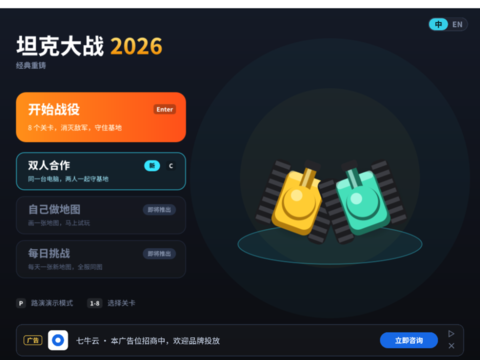
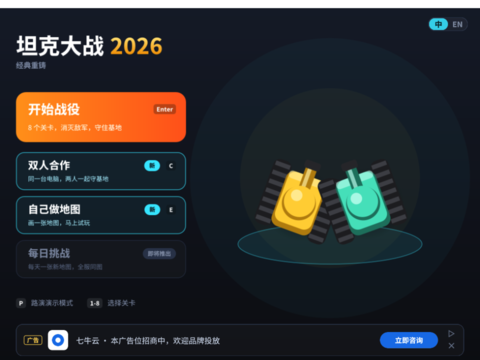
docs: map maker is implemented — screenshots, test log, architecture

Changed region(s): [[0.0312, 0.5194, 0.4062, 0.6722], [0.8125, 0.9167, 0.8438, 0.9472]]

diff --git a/docs/ARCHITECTURE.md b/docs/ARCHITECTURE.md
@@ -61,11 +61,12 @@ flowchart LR
 
 | 分组 | 主要内容 |
 |---|---|
-| 状态 | `grid []int`（0 空地 1 砖 2 钢 3 裂砖 4 水 5 草 9 基地）、`stage`（当前关卡 1~8）`stageScore`（进关时的得分）、`coop` `p2Exists` `lives2` `pbCount2` `p1x/p1y/p2x/p2y` `hitWho`（双人合作）、`score` `best` `lives` `killed` `spawned`、`theme`（0 经典 1 现代）、`lang`（0 中 1 英）、`state`、`screen`、`revived` `coins` `doubled`、广告关闭状态、自动驾驶状态 |
+| 状态 | `grid []int`（0 空地 1 砖 2 钢 3 裂砖 4 水 5 草 9 基地）、`stage`（当前关卡 1~8）`stageScore`（进关时的得分）、`coop` `p2Exists` `lives2` `pbCount2` `p1x/p1y/p2x/p2y` `hitWho`（双人合作）、`ed` `edTool` `edMirror` `edProblem` `edMark` `edCursor`（地图编辑器）、`score` `best` `lives` `killed` `spawned`、`theme`（0 经典 1 现代）、`lang`（0 中 1 英）、`state`、`screen`、`revived` `coins` `doubled`、广告关闭状态、自动驾驶状态 |
 | 地图 | `levelMap()`（按 `stage` 返回 8 张地图之一）、`stageTune()`（本关的重型 / 快速坦克占比、出兵间隔、场上上限）、`stageTip()`、`buildMap()`、`cellX/cellY/cellIndex/cellAt`、`tankBlocked()`、`blocksTank()` |
 | 子弹判定 | `bulletHit()`（弹头左右两个检测点）→ `hitPoint()` → `breakBrick()` / `baseDestroyed()` |
 | 规则 | `spawnEnemy()`（左中右轮流出生，类型和数量按 `stageTune()`）、`enemyKilled()`、`defeat()`、`endGame()` |
-| 流程 | `goHome()`、`playStage(n)`、`startGame()`、`again()`（结算后：下一关 / 重打本关 / 全部通关后回到第 1 关）、`watchAd()`、`revive()`、`showResult()`、`setScreen()`、`confirm()`，见[第 5 节](#5-游戏流程状态机) |
+| 地图编辑器 | `openEditor()`、`edPaint()`、`edCheck()`（规则同 `check.py`）、`edRebuild()`、`edRandom()`、`edSave()` / `edLoad()`（PC 版存到 `os.UserConfigDir()/TankBattle/maps.txt`）、`edCommand()`、`playCustom()` |
+| 流程 | `goHome()`、`newGame(n, two)`、`playStage(n)`、`startGame()`、`again()`（结算后：下一关 / 重打本关 / 全部通关后回到第 1 关）、`watchAd()`、`revive()`、`showResult()`、`setScreen()`、`confirm()`，见[第 5 节](#5-游戏流程状态机) |
 | 表现 | `look()`（画风后缀）、`langCode()`、`switchTheme()`、`switchLang()`、`toast()`、`shake()`、基地特写镜头 |
 | 界面布局 | `buildHud()`：创建所有 UI 克隆，坐标见[第 6 节](#6-坐标与布局) |
 | 路演演示 | `demoFlow` 消息处理、`autopilotDir()`、`seeEnemy()`、`autopilotBlocked()`、`waitState()` |
@@ -93,7 +94,9 @@ flowchart LR
 | `kLang` | 中 \| EN 按钮（可点击） | `toggle_<lang>` | `langChanged`、`screen` |
 | `kToast` | 提示条（自动隐藏） | `msg.*_<lang>` | `toast` |
 | `kAd` | 广告位：原生广告卡 `card` / 主页横幅 `banner`（可点击、可关闭） | `card_<lang>`、`banner_<lang>` | `screen`、`langChanged` |
-| `kScreen` | 全屏 / 弹窗画面（可点击） | `home`、`revive_<n>`、`adplay_<n>`、`result_<win\|final\|lose>_<plain\|done>`，再加 `_<lang>` | `screen` |
+| `kLife2` | 2P 的生命图标 | `life2_on/off` | `hud` |
+| `kEdSel` `kEdSwitch` `kEdStatus` `kEdCursor` `kEdMark` | 地图编辑器的小部件：工具选中框、对称开关和对称线、检查结果、光标、问题标记 | `edsel` `edsw_on/off` `edline` `edok/edbad1/edbad2_<lang>` `edcursor` `edmark` | `edit`、`edCursor` |
+| `kScreen` | 全屏 / 弹窗画面（可点击） | `home`、`editor`、`revive_<n>`、`adplay_<n>`、`result_<win\|final\|lose\|ewin\|elose>_<plain\|done>`，再加 `_<lang>` | `screen` |
 
 ### 3.4 构建工具 `tools/`
 
@@ -122,6 +125,9 @@ flowchart LR
 | `screen` | 舞台 `setScreen`（`broadcastAndWait`） | UI | 画面切换：画面层置顶，广告位按状态显示 / 隐藏 |
 | `raise` | 舞台 `setScreen` | UI | 把广告位、语言按钮、提示条、金币数放到画面层之上 |
 | `playerHit` | EBullet | Player | 玩家被击中；`hitWho` 说明是 1P 还是 2P，只有那一辆处理 |
+| `editLoop` | 舞台 | 舞台 | 编辑器：每帧读鼠标，绘制格子 |
+| `edit` / `edCursor` | 舞台 | UI（编辑器小部件） | 编辑状态变了 / 鼠标所在的格子变了 |
+| `tileGone` | 舞台 `edPaint` | Tile | 编辑器改了一个格子，编号为 `edChanged` 的克隆消失 |
 | `p2respawn` / `p2off` | 舞台 | Player（2P 克隆） | 2P 重新出生（开局、复活）/ 去掉 2P（单人开局、回主页） |
 | `pbHit` / `clash` | Enemy / PBullet | PBullet / EBullet | 子弹命中坦克后消失 / 子弹相撞互相抵消 |
 | `shake` / `baseCam` | 舞台 | 舞台 | 震屏 / 基地特写镜头 |
@@ -134,6 +140,9 @@ flowchart LR
 stateDiagram-v2
   [*] --> 主页: onStart
   主页 --> 对局: Enter / 空格 / 点击开始（第 1 关）；1~8 选关；C 双人合作
+  主页 --> 编辑器: E / 点击自己做地图
+  编辑器 --> 对局: Enter 试玩 / P 双人试玩（自制地图）
+  编辑器 --> 主页: Esc
   主页 --> 对局: P（路演演示，自动驾驶）
   对局 --> 复活询问: 基地被毁 / 生命用完（本局第一次）
   对局 --> 结算: 再次战败 / 消灭 20 辆（胜利）
@@ -147,7 +156,7 @@ stateDiagram-v2
   结算 --> 主页: H / 点击主页
 ```
 
-- `state` 取值：`stHome` `stPlay` `stRevive` `stAd` `stResult`。按键处理都先看 `state`，同一个键在不同画面有不同含义。
+- `state` 取值：`stHome` `stPlay` `stRevive` `stAd` `stResult` `stEdit`。按键处理都先看 `state`，同一个键在不同画面有不同含义。
 - `gameOver` 表示“战场冻结”，坦克和子弹在冻结时不动。除了 `stPlay` 以外的状态，战场都是冻结的。
 - 每局只能复活一次（`revived`），金币只能翻倍一次（`doubled`）。
 
@@ -252,6 +261,7 @@ stateDiagram-v2
 | #10 | 8 个关卡（新增 7 关）、按关卡配置敌军、选关、下一关、关卡检查工具 |
 | #12 | v3.0 规划：自己做地图、双人合作的评估（文档和效果图） |
 | #13 | 双人合作：2P 坦克、按键、规则、HUD、主页入口 |
+| #14 | 自己做地图：编辑器、绘制、实时检查、随机起点、复制关卡、试玩、PC 保存 |
 
 ### 分工
 

diff --git a/docs/v3/MAP_EDITOR.md b/docs/v3/MAP_EDITOR.md
@@ -1,7 +1,7 @@
 # 坦克大战 v3.0 · 自己做地图（地图编辑器）
 
 > 玩家在游戏里用鼠标（或手指）一格一格画出自己的战场，画完马上试玩。
-> 本文是 [v3.0 规划](PLAN.md)的一部分，只做评估和方案，**还没有写游戏代码**。效果图由 [`mockups/gen_v3.py`](mockups/gen_v3.py) 调用游戏自己的美术生成器画出，地形、坦克、按钮都和游戏里一模一样。
+> 本文是 [v3.0 规划](PLAN.md)的一部分。**状态：✅ 已实现**（[PR #14](https://github.com/Qiniu-ERE/zero/pull/14)），第七节是实际运行截图和验证记录；前面几节是当初的评估和方案。效果图由 [`mockups/gen_v3.py`](mockups/gen_v3.py) 调用游戏自己的美术生成器画出。
 
 ## 结论
 
@@ -78,3 +78,29 @@
 | **P0** | 编辑器页面、绘制、工具、对称、锁定格、实时检查、试玩 / 继续编辑 | 2 天 |
 | **P0** | 随机起点、从关卡复制、清空；PC 版保存到文件、网页版存档位 | 0.5~1 天 |
 | **P1** | Web 外壳里用 localStorage 保存、分享链接 | 1 天 |
+
+## 七、实现结果（`spx run` 实际运行）
+
+| 主页：按 E 进入 | 编辑中（地图合格） | 地图有问题：出生点标红 | 试玩胜利：继续编辑 |
+|---|---|---|---|
+| ![](editor/home.png) | ![](editor/editor-zh.png) | ![](editor/editor-bad-zh.png) | ![](editor/result-edit-zh.png) |
+
+**验证**（在工程副本里追加测试脚本调用编辑器函数，`spx run` 运行）：
+
+| 场景 | 结果 |
+|---|---|
+| 进入编辑器 | 空白地图只有锁定格；地形由 `Tile` 克隆显示，玩家坦克隐藏 |
+| 对称绘制 | 画左边，右边同时出现；锁定格不会被改 |
+| 画一整排水面 | 右侧显示“敌人到不了基地”，左上出生点标红；删掉两格后恢复“地图可以玩” |
+| 随机起点 | 生成的地图检查合格 |
+| 从关卡复制（按两次 K） | 载入第 2 关的地图 |
+| 保存（PC） | 写入 `~/Library/Application Support/TankBattle/maps.txt`（182 字节），下次进入编辑器自动载入（测试文件已删除） |
+| 试玩 / 双人试玩 | 进入「自制地图」（双人时带「双人 / 2P」标签）；胜利后「继续编辑」回到编辑器 |
+| English | 编辑器、提示、按钮都有英文 |
+
+**和方案不同的地方**：
+
+- **只有一个保存位**：PC 版存到文件，下次自动载入；网页版保存时提示“网页版不能存文件，地图保留到关闭页面”（地图在本次运行里一直保留）。原方案的 3 个存档位没有做。
+- **问题标记**：在出问题的出生点（敌人到不了基地）或玩家出生点（坦克开不到敌人出生点）上标红，没有标整排。
+- **还没做**：手机上的“放大光标”。鼠标点击和拖动是用每帧检查 `mousePressed` 实现的，触屏在引擎里会当作鼠标，理论上可以直接用，但还没在真机上试过。
+- **没测的**：真实的鼠标点击和拖动（测试是脚本直接调用绘制函数；为了不往你的前台窗口发鼠标事件）。

diff --git a/README.md b/README.md
@@ -48,6 +48,7 @@ spx run .
 |---|---|
 | Enter / 空格 / 点击「开始战役」 | 从第 1 关开始 |
 | 1 ~ 8 | 主页：直接进入对应关卡 |
+| E / 点击「自己做地图」 | 主页：地图编辑器。鼠标点击或拖动绘制；1~5 选工具，M 对称，Enter 试玩，P 双人试玩，R 随机起点，K 复制关卡，C 清空，S 保存，Esc 返回 |
 | C / 点击「双人合作」 | 主页：双人合作。1P：WASD 移动、J / 空格开火；2P：方向键移动、Enter 开火 |
 | 方向键 / WASD | 移动坦克 |
 | 空格 / J | 开火 |
